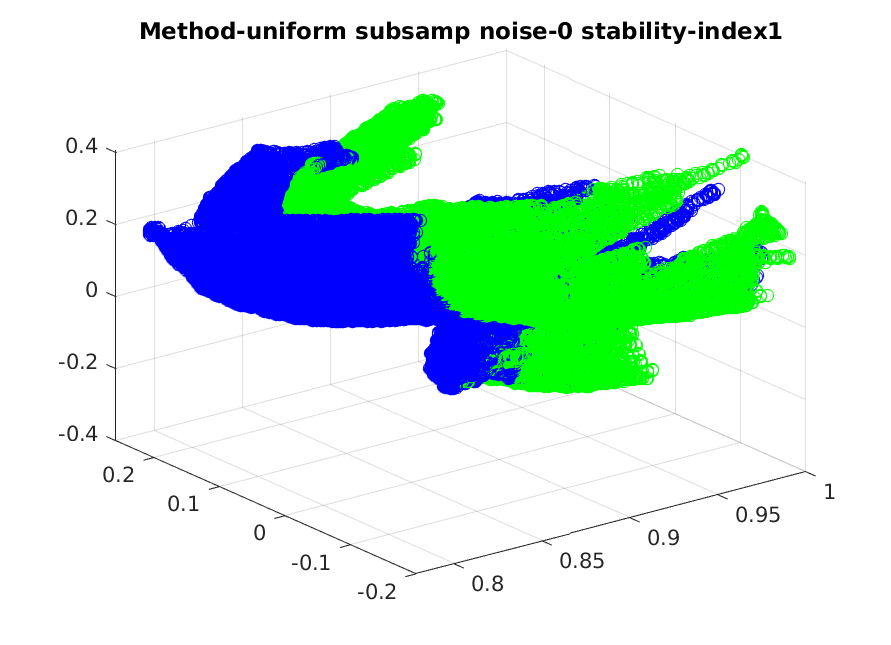
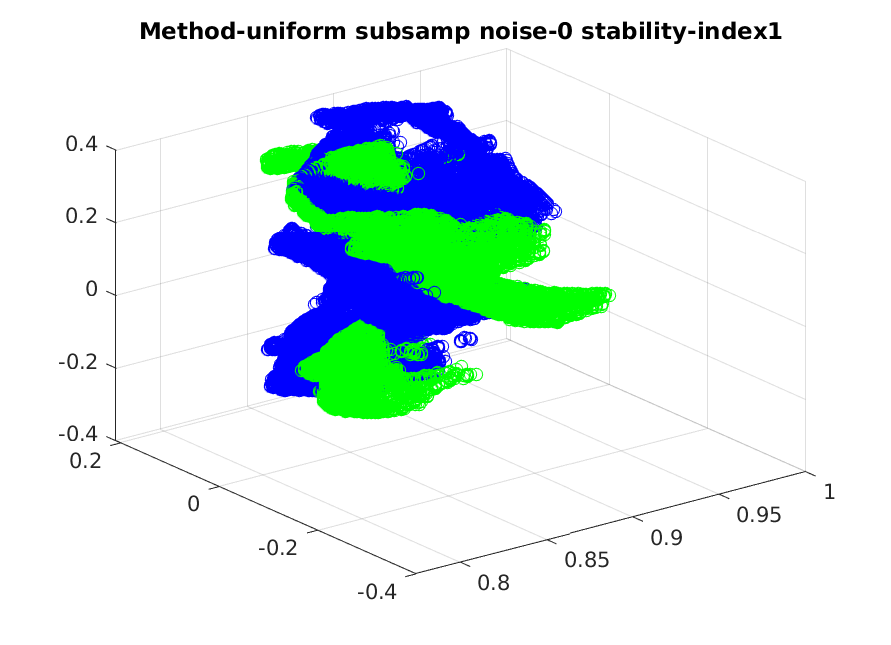
commented out subsampling on targets

diff --git a/Assignment1/icp/icp.m b/Assignment1/icp/icp.m
@@ -30,7 +30,7 @@ t = t_final;
 % if this method is called use some subsampling
 if (strcmp(method, "uniform_subsamp"))
     A1 = subsample(A1, sample_percentage, "uniform", 0);
-    A2 = subsample(A1, sample_percentage, "uniform", 0);
+%     A2 = subsample(A1, sample_percentage, "uniform", 0);
 end
 
 iterations = 0;
@@ -38,17 +38,17 @@ finished = false;
 while ~finished
     
     iterations = iterations + 1;
-    
+    A2_local = A2;
     % get sample for iteration
     if (strcmp(method, "all_points") || strcmp(method, "uniform_subsamp"))
         A1_local = A1;
-        A2_local = A2;
+        
     elseif(strcmp(method, "random_iterative_subsamp"))
         A1_local = subsample(A1, sample_percentage, "uniform", 0);
-        A2_local = subsample(A2, sample_percentage, "uniform", 0);
+%         A2_local = subsample(A2, sample_percentage, "uniform", 0);
     elseif(strcmp(method, "informed_iterative_subsamp"))
         A1_local = subsample(A1, sample_percentage, "informed", source_normals);
-        A2_local = subsample(A2, sample_percentage, "informed", target_normals);
+%         A2_local = subsample(A2, sample_percentage, "informed", target_normals);
     else
         error("wrong keyword in sample method: "+method);
     end
@@ -58,7 +58,7 @@ while ~finished
     matches = filter_bad_points(matches, R, t);
     
     % check exit condition
-    error = rms(matches(1:3,:), matches(4:6,:), R, t);
+    
     
 %     if (mean(error) < epsilon)
 %        break 
@@ -71,6 +71,7 @@ while ~finished
     R_final = R * R_final;
     t_final = R * t_final + t;
     
+    error = rms(matches(1:3,:), matches(4:6,:), R, t);
     if (mean(error) < epsilon)
        break 
     end    

diff --git a/Assignment1/main_merging_scenes.m b/Assignment1/main_merging_scenes.m
@@ -16,8 +16,8 @@ f2_normals = frame2.normals;
 
 %Parameters
 method = "uniform_subsamp";
-epsilon = 0.00025;
-sample_percentage = 0.5;
+epsilon = 0.00002;
+sample_percentage = 0.15;
 s_rate = 1;
 N = 100; %Total number of images
 
